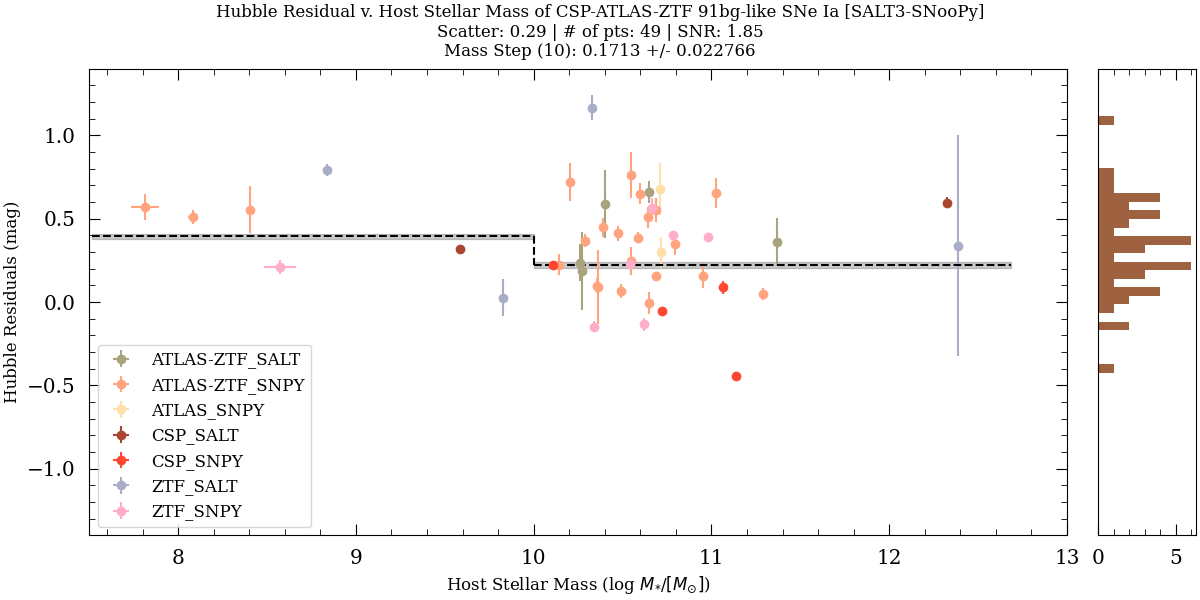
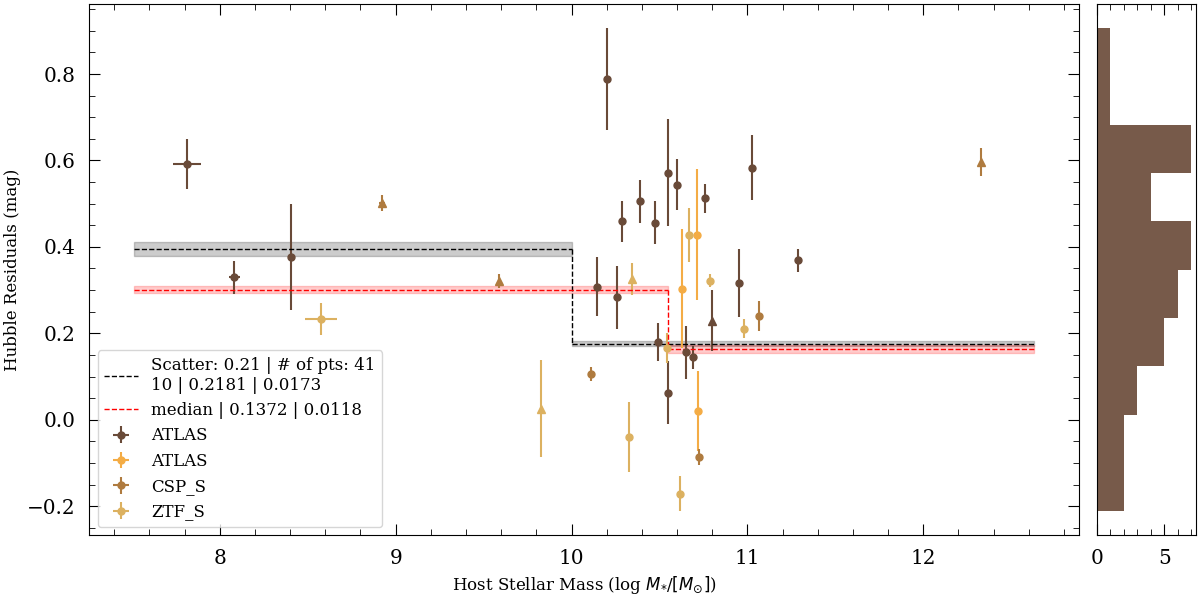
updates to the plotting mass v resid fucntions

diff --git a/urd.py b/urd.py
@@ -844,7 +844,7 @@ def sample_cutter(path, algo='snpy'):
     elif algo == 'salt':
         print('[+++] Cutting sample for SALT data...')
         # cuts = {'z': 0.015, 'c': (-0.3, 1.0), 'c_err': 0.1, 'x1_err': 1.0, 't0_err': 1, 'mu_err': 0.2}
-        cuts = {'z': 0.015, 'c': (-0.3, 0.3), 'c_err': 0.1, 'x1_err': 0.5, 't0_err': 1, 'mu_err': 0.2}
+        cuts = {'z': 0.015, 'c': (-0.3, 0.6), 'c_err': 0.1, 'x1_err': 0.5, 't0_err': 1, 'mu_err': 0.2}
         f_out = '      | '
         for c in cuts:
             f_out += c + ': ' + str(cuts[c]) + ' | '
@@ -1055,6 +1055,189 @@ def resid_v_mass(path, cut=10, title='', labels=False, save_loc=None):
         plt.savefig(save_loc)
     plt.show()
     return
+def resid_v_mass_med(path, title='', labels=False, save_loc=None):
+    # Pull data from saved text
+    data = np.genfromtxt(path, delimiter=', ', skip_header=1, dtype=str)
+
+    # Get header
+    with open(path, 'r') as f:
+        hdr = f.readline().split(', ')
+        hdr[-1] = hdr[-1][:-1]
+
+    fig, axs = plt.subplots(1, 2, figsize=(12, 6), gridspec_kw={'width_ratios': [10, 1]}, constrained_layout=True)
+    color_wheel = {'ZTF': '#81ADC8', 'ATLAS': '#EEDFAA', 'CSP': '#CD4631', 'ATLAS-ZTF': '#DEA47E',
+                   'ZTF_SNPY': '#dcb160', 'ATLAS_SNPY': '#f4ac45', 'CSP_SNPY': '#af7b3f', 'ATLAS-ZTF_SNPY': '#694a38',
+                   'ZTF_SALT': '#dcb160', 'ATLAS_SALT': '#f4ac45', 'CSP_SALT': '#af7b3f', 'ATLAS-ZTF_SALT': '#694a38',
+                   'Pan+': 'maroon', 'Histogram': '#775A4A'}
+
+    # Set Arrays
+    z = data[:, hdr.index('z_cmb')].astype(float)
+    mass, mass_err = data[:, hdr.index('hostMass')].astype(float), data[:, hdr.index('hostMass_err')].astype(float)
+    mu, mu_err = data[:, hdr.index('mu')].astype(float), data[:, hdr.index('mu_err')].astype(float)
+    resid_mu, resid_mu_err = sigma_clip(mu - gen.current_cosmo().distmod(z).value, sigma=3.0), np.copy(mu_err)
+
+    # Make main plot
+    for origin in np.unique(data[:, hdr.index('origin')]):
+        if 'SALT' in origin:
+            format_dict = {'marker': '^', 'fmt':'o', 'label': None, 'alpha': 1, 'ms':6}
+        else:
+            format_dict = {'marker': 'o', 'fmt':'o', 'label': origin[:5], 'alpha': 1, 'ms':5}
+        indexes = np.where(data[:, hdr.index('origin')] == origin)[0]
+        axs[0].errorbar(mass[indexes], resid_mu[indexes], xerr=mass_err[indexes], yerr=resid_mu_err[indexes],
+                        color=color_wheel[origin], **format_dict)
+
+        # Labels
+        if labels:
+            for i in range(len(resid_mu[indexes])):
+                axs[0].text(mass[indexes][i], resid_mu[indexes][i], str(data[:, 0][indexes][i]), size='x-small', va='top')
+
+    # Make histogram
+    axs[1].hist(resid_mu, bins=10, orientation="horizontal", color=color_wheel['Histogram'])
+
+    # Get Mass Step
+    for cut in [10, 'median']:
+        if cut == 'median':
+            num_cut = round(np.median(mass), 4)
+            lin_color, label = 'r', str(cut)
+        else:
+            num_cut = cut
+            label = 'Scatter: ' + str(round(np.std(resid_mu), 2)) + ' | # of pts: ' + str(len(resid_mu))+ '\n'+str(cut)
+            lin_color = 'k'
+
+        mass_step_dict, resid_dict = mass_step_calc(mu, mu_err, mass, z, cut=num_cut)
+        label += ' | '+str(round(mass_step_dict['value'], 4))+' | '+str(round(mass_step_dict['err'], 4))
+
+        # Plot Mass Step
+        plt_details = {'linestyle': '--', 'linewidth': 1.0, 'color': lin_color}
+        fill_details = {'color': lin_color, 'alpha': 0.2}
+        axs[0].hlines(y=resid_dict['lower_resid']['value'], xmin=np.min(mass)-0.3, xmax=num_cut, **plt_details)  # Left
+        axs[0].hlines(y=resid_dict['upper_resid']['value'], xmin=num_cut, xmax=np.max(mass)+0.3, **plt_details)  # Right
+        axs[0].fill_between([np.min(mass)-0.3, num_cut],
+                            resid_dict['lower_resid']['value'] - resid_dict['lower_resid']['err'],
+                            resid_dict['lower_resid']['value'] + resid_dict['lower_resid']['err'],
+                            **fill_details)  # Left
+        axs[0].fill_between([num_cut, np.max(mass)+0.3],
+                            resid_dict['upper_resid']['value'] - resid_dict['upper_resid']['err'],
+                            resid_dict['upper_resid']['value'] + resid_dict['upper_resid']['err'],
+                            **fill_details)  # Right
+        axs[0].vlines(x=num_cut, ymin=resid_dict['lower_resid']['value'], ymax=resid_dict['upper_resid']['value'],
+                      label=label, **plt_details)
+
+    # Formatting
+    ylimiter, xlimiter = np.max(np.abs(resid_mu)) + 0.3, [np.min(mass)-0.3, np.max(mass)+0.3]
+    # axs[0].set_ylim(-ylimiter, ylimiter)
+    # axs[1].set_ylim(-ylimiter, ylimiter)
+    # axs[0].set_xlim(xlimiter[0], xlimiter[1])
+    axs[0].set(xlabel="Host Stellar Mass (log $M_{*}$/$[M_{\odot}]$)", ylabel='Hubble Residuals (mag)')  # Sub-plot Labels
+    axs[1].get_yaxis().set_visible(False)  # Turn off y-axis labels
+    axs[0].legend(loc='best')
+
+    # Saving Figure
+    if save_loc is not None:
+        print('Saved figure to... ', save_loc)
+        plt.savefig(save_loc)
+    plt.show()
+    return
+def resid_v_mass_stacked(title='', labels=False, save_loc=None):
+    n = 0
+    fig, axs = plt.subplots(3, 2, figsize=(12, 16), gridspec_kw={'width_ratios': [10, 1]}, constrained_layout=True)
+    for path in ['output/combiend__snpy_params_cut.txt', 'output/combiend__salt_params_cut.txt',
+                 'output/merged_params_cut.txt']:
+        # Pull data from saved text
+        data = np.genfromtxt(path, delimiter=', ', skip_header=1, dtype=str)
+
+        # Get header
+        with open(path, 'r') as f:
+            hdr = f.readline().split(', ')
+            hdr[-1] = hdr[-1][:-1]
+
+        color_wheel = {'ZTF': '#81ADC8', 'ATLAS': '#EEDFAA', 'CSP': '#CD4631', 'ATLAS-ZTF': '#DEA47E',
+                       'ZTF_SNPY': '#dcb160', 'ATLAS_SNPY': '#f4ac45', 'CSP_SNPY': '#af7b3f',
+                       'ATLAS-ZTF_SNPY': '#694a38',
+                       'ZTF_SALT': '#dcb160', 'ATLAS_SALT': '#f4ac45', 'CSP_SALT': '#af7b3f',
+                       'ATLAS-ZTF_SALT': '#694a38',
+                       'Pan+': 'maroon', 'Histogram': '#775A4A'}
+
+        # Set Arrays
+        z = data[:, hdr.index('z_cmb')].astype(float)
+        mass, mass_err = data[:, hdr.index('hostMass')].astype(float), data[:, hdr.index('hostMass_err')].astype(float)
+        mu, mu_err = data[:, hdr.index('mu')].astype(float), data[:, hdr.index('mu_err')].astype(float)
+        resid_mu, resid_mu_err = sigma_clip(mu - gen.current_cosmo().distmod(z).value, sigma=3.0), np.copy(mu_err)
+
+        # Make main plot
+        for origin in np.unique(data[:, hdr.index('origin')]):
+            if 'SALT' in origin:
+                format_dict = {'marker': '^', 'fmt': 'o', 'label': None, 'alpha': 1, 'ms': 6}
+            else:
+                format_dict = {'marker': 'o', 'fmt': 'o', 'label': origin, 'alpha': 1, 'ms': 5}
+            indexes = np.where(data[:, hdr.index('origin')] == origin)[0]
+            axs[n, 0].errorbar(mass[indexes], resid_mu[indexes], xerr=mass_err[indexes], yerr=resid_mu_err[indexes],
+                               color=color_wheel[origin], **format_dict)
+
+            # Labels
+            if labels:
+                for i in range(len(resid_mu[indexes])):
+                    axs[n, 0].text(mass[indexes][i], resid_mu[indexes][i], str(data[:, 0][indexes][i]), size='x-small',
+                                   va='top')
+
+        # Make histogram
+        axs[n, 1].hist(resid_mu, bins=int(len(resid_mu) / 2), orientation="horizontal", color=color_wheel['Histogram'])
+
+        # Get Mass Step
+        for cut in [10, 'median']:
+            if cut == 'median':
+                num_cut = round(np.median(mass), 4)
+                lin_color, label = 'r', str(cut)
+            else:
+                num_cut = cut
+                label = 'Scatter: ' + str(round(np.std(resid_mu), 2)) + ' | # of pts: ' + str(
+                    len(resid_mu)) + '\n' + str(cut)
+                lin_color = 'k'
+
+            mass_step_dict, resid_dict = mass_step_calc(mu, mu_err, mass, z, cut=num_cut)
+            label += ' | ' + str(round(mass_step_dict['value'], 4)) + ' | ' + str(round(mass_step_dict['err'], 4))
+
+            # Plot Mass Step
+            plt_details = {'linestyle': '--', 'linewidth': 1.0, 'color': lin_color}
+            fill_details = {'color': lin_color, 'alpha': 0.2}
+            axs[n, 0].hlines(y=resid_dict['lower_resid']['value'], xmin=np.min(mass) - 0.3, xmax=num_cut,
+                             **plt_details)  # Left
+            axs[n, 0].hlines(y=resid_dict['upper_resid']['value'], xmin=num_cut, xmax=np.max(mass) + 0.3,
+                             **plt_details)  # Right
+            axs[n, 0].fill_between([np.min(mass) - 0.3, num_cut],
+                                   resid_dict['lower_resid']['value'] - resid_dict['lower_resid']['err'],
+                                   resid_dict['lower_resid']['value'] + resid_dict['lower_resid']['err'],
+                                   **fill_details)  # Left
+            axs[n, 0].fill_between([num_cut, np.max(mass) + 0.3],
+                                   resid_dict['upper_resid']['value'] - resid_dict['upper_resid']['err'],
+                                   resid_dict['upper_resid']['value'] + resid_dict['upper_resid']['err'],
+                                   **fill_details)  # Right
+            axs[n, 0].vlines(x=num_cut, ymin=resid_dict['lower_resid']['value'],
+                             ymax=resid_dict['upper_resid']['value'],
+                             label=label, **plt_details)
+
+        axs[n, 1].get_yaxis().set_visible(False)  # Turn off y-axis labels
+        axs[n, 0].get_xaxis().set_visible(False);
+        axs[n, 1].get_xaxis().set_visible(False)  # Turn off x-axis labels
+        axs[n, 0].set_ylim(-0.25, 0.95);
+        axs[n, 1].set_ylim(-0.25, 0.95)
+        axs[n, 0].legend(loc='lower left')
+
+        n += 1
+
+    # Formatting
+    axs[1, 0].get_yaxis().set_visible(True)
+    axs[2, 0].get_xaxis().set_visible(True);
+    axs[2, 1].get_xaxis().set_visible(True)
+    axs[1, 0].set(ylabel='Hubble Residuals (mag)')
+    axs[2, 0].set(xlabel="Host Stellar Mass (log $M_{*}$/$[M_{\odot}]$)")
+
+    # Saving Figure
+    if save_loc is not None:
+        print('Saved figure to... ', save_loc)
+        plt.savefig(save_loc)
+    plt.show()
+    return
 def norm_vs_91bg_hist(param, width=None):
     snenormIa = np.genfromtxt('txts/HiCAT_DR3_params.txt', delimiter=', ', skip_header=1, dtype=str)
     sne91bg = np.genfromtxt('output/combiend__snpy_params.txt', delimiter=', ', skip_header=1, dtype=str)
@@ -1102,26 +1285,30 @@ def snpy_hist(hicat_params_file, norm_params_file, save_loc='', sigma = 3.0, st_
     # ST plot
     set1 = sigma_clip(dr3_data[:, dr3_hdr.index('st')].astype(float), sigma=sigma)
     ax[0].hist(set1, int((np.max(set1) - np.min(set1)) / st_width), label='DR3', color='#5AD2F4')
-    ax[0].axvline(x=np.median(set1), label=r'$\tilde{x}_{DR3}$', linewidth=2.5, color='#4bb0cc', linestyle='--')
+    ax[0].axvline(x=np.median(set1), label=r'$\tilde{x}_{DR3}$ = '+str(round(np.median(set1),2)),
+                  linewidth=2.5, color='#4bb0cc', linestyle='--')
     set2 = sigma_clip(hicat_data[:, hicat_hdr.index('st')].astype(float), sigma=sigma)
     ax[0].hist(set2, int((np.max(set2) - np.min(set2)) / st_width), label='HiCAT', color='#62BEC1', alpha=0.75)
-    ax[0].axvline(x=np.median(set2), label=r'$\tilde{x}_{HiCAT}$', linewidth=2.5, color='#52a1a3', linestyle=':')
+    ax[0].axvline(x=np.median(set2), label=r'$\tilde{x}_{HiCAT}$ = '+str(round(np.median(set2),2)),
+                  linewidth=2.5, color='#52a1a3', linestyle=':')
     ax[0].legend()
-    ax[0].set_xlabel('Stretch [st]')
+    ax[0].set_title('Stretch [st]')
 
     # EBVhost plot
     set1 = sigma_clip(dr3_data[:, dr3_hdr.index('EBVhost')].astype(float), sigma=sigma)
     ax[1].hist(set1, int((np.max(set1) - np.min(set1)) / c_width), label='DR3', color='#5AD2F4')
-    ax[1].axvline(x=np.average(set1), label=r'$\bar{x}_{DR3}$', linewidth=2.5, color='#4bb0cc', linestyle='--')
+    ax[1].axvline(x=np.average(set1), label=r'$\bar{x}_{DR3}$ = '+str(round(np.average(set1),2)),
+                  linewidth=2.5, color='#4bb0cc', linestyle='--')
     set2 = sigma_clip(hicat_data[:, hicat_hdr.index('EBVhost')].astype(float), sigma=sigma)
     ax[1].hist(set2, int((np.max(set2) - np.min(set2)) / c_width), label='HiCAT', color='#62BEC1', alpha=0.75)
-    ax[1].axvline(x=np.average(set2), label=r'$\bar{x}_{HiCAT}$', linewidth=2.5, color='#52a1a3', linestyle=':')
+    ax[1].axvline(x=np.average(set2), label=r'$\bar{x}_{HiCAT}$ = '+str(round(np.average(set2),2)),
+                  linewidth=2.5, color='#52a1a3', linestyle=':')
     ax[1].legend()
-    ax[1].set_xlabel('Color [E(B-V) Host]')
-    ax[1].set_xlim(-0.05, 0.45)
+    ax[1].set_title('Color [E(B-V) Host]')
+    # ax[1].set_xlim(-0.05, 0.45)
     # ax[1].invert_xaxis()
 
-    plt.suptitle('HiCAT 91bg-like Type Ia SNe v. DR3 Normal Type Ia SNe\n SNooPy paramaters')
+    # plt.suptitle('HiCAT 91bg-like Type Ia SNe v. DR3 Normal Type Ia SNe\n SNooPy paramaters')
     if len(save_loc) > 0:
         plt.savefig(save_loc, dpi=300)
     plt.show()
@@ -1144,22 +1331,26 @@ def salt_hist(hicat_params_file, norm_params_file, save_loc='', sigma = 3.0, st_
     set2 = sigma_clip(hicat_data[:, hicat_hdr.index('x1')].astype(float), sigma=sigma)
     ax[0].hist(set1, int((np.max(set1) - np.min(set1)) / st_width), label='DR3', color='#5AD2F4')
     ax[0].hist(set2, int((np.max(set2) - np.min(set2)) / st_width), label='HiCAT', color='#62BEC1', alpha=0.75)
-    ax[0].axvline(x=np.median(set1), label=r'$\tilde{x}_{DR3}$', linewidth=2.5, color='#4bb0cc', linestyle='--')
-    ax[0].axvline(x=np.median(set2), label=r'$\tilde{x}_{HiCAT}$', linewidth=2.5, color='#52a1a3', linestyle=':')
+    ax[0].axvline(x=np.median(set1), label=r'$\tilde{x}_{DR3}$ = '+str(round(np.median(set1),2)),
+                  linewidth=2.5, color='#4bb0cc', linestyle='--')
+    ax[0].axvline(x=np.median(set2), label=r'$\tilde{x}_{HiCAT}$ = '+str(round(np.median(set2),2)),
+                  linewidth=2.5, color='#52a1a3', linestyle=':')
     ax[0].legend()
-    ax[0].set_xlabel('Stretch [x1]')
+    ax[0].set_title('Stretch [x1]')
 
     # c plot
     set1 = sigma_clip(dr3_data[:, dr3_hdr.index('c')].astype(float), sigma=sigma)
     set2 = sigma_clip(hicat_data[:, hicat_hdr.index('c')].astype(float), sigma=sigma)
     ax[1].hist(set1, int((np.max(set1) - np.min(set1)) / c_width), label='DR3', color='#5AD2F4')
     ax[1].hist(set2, int((np.max(set2) - np.min(set2)) / c_width), label='HiCAT', color='#62BEC1', alpha=0.75)
-    ax[1].axvline(x=np.median(set1), label=r'$\tilde{x}_{DR3}$', linewidth=2.5, color='#4bb0cc', linestyle='--')
-    ax[1].axvline(x=np.median(set2), label=r'$\tilde{x}_{HiCAT}$', linewidth=2.5, color='#52a1a3', linestyle=':')
+    ax[1].axvline(x=np.median(set1), label=r'$\tilde{x}_{DR3}$ = '+str(round(np.median(set1),2)),
+                  linewidth=2.5, color='#4bb0cc', linestyle='--')
+    ax[1].axvline(x=np.median(set2), label=r'$\tilde{x}_{HiCAT}$ = '+str(round(np.median(set2),2)),
+                  linewidth=2.5, color='#52a1a3', linestyle=':')
     ax[1].legend()
-    ax[1].set_xlabel('Color [c]')
+    ax[1].set_title('Color [c]')
 
-    plt.suptitle('HiCAT 91bg-like Type Ia SNe v. DR3 Normal Type Ia SNe\n SALT paramaters')
+    # plt.suptitle('HiCAT 91bg-like Type Ia SNe v. DR3 Normal Type Ia SNe\n SALT paramaters')
     if len(save_loc) > 0:
         print('[+++] Saved figure to...', save_loc)
         plt.savefig(save_loc, dpi=300)
@@ -1264,17 +1455,5 @@ def smart_fit(fit_type, data_set='', algo='', path=None, save_loc='', dmag_max=0
 
 if __name__ == '__main__':
     start = systime.time()  # Runtime tracker
-    # files = 'output/combiend__snpy_params.txt', 'output/combiend__salt_params.txt', 'output/merged_params_cut.txt'
-
-    # sample_cutter('output/combiend__snpy_params.txt', 'snpy')
-    # merge_snpy_salt_params('output/combiend__snpy_params_cut.txt',
-    #                        'output/combiend__salt_params_cut.txt',
-    #                        'output/merged_params_cut.txt')
-    resid_v_mass('output/combiend__snpy_params_cut.txt')
-
-    # data = np.genfromtxt('output/combiend__snpy_params_cut.txt', dtype=float, delimiter=', ', skip_header=1)
-    # mass, mu, z = data[:, 16], data[:, 8], data[:, 4]
-    # mass_err, mu_err = data[:, 17], data[:, 9]
-    # resid = mu - gen.current_cosmo().distmod(z).value
 
     print('|---------------------------|\n Run-time: ', round(systime.time() - start, 4), 'seconds\n|---------------------------|')
